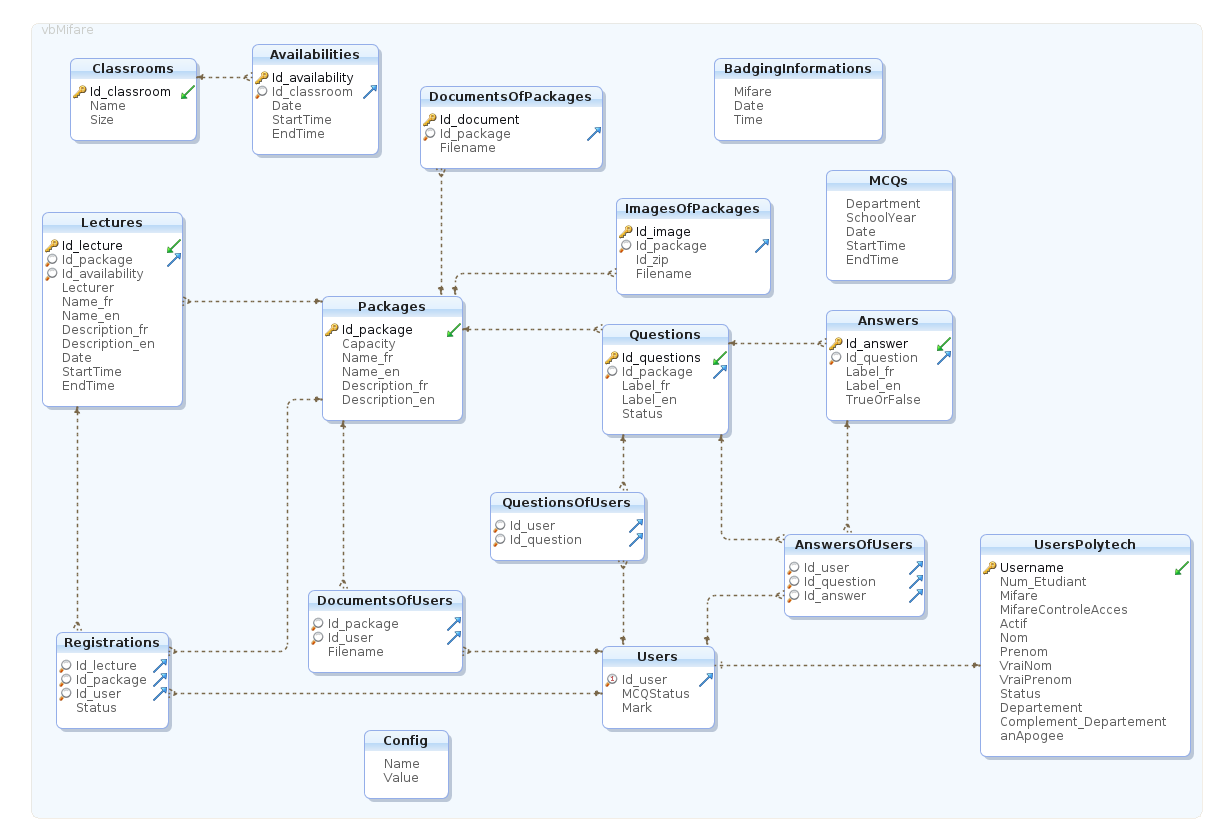
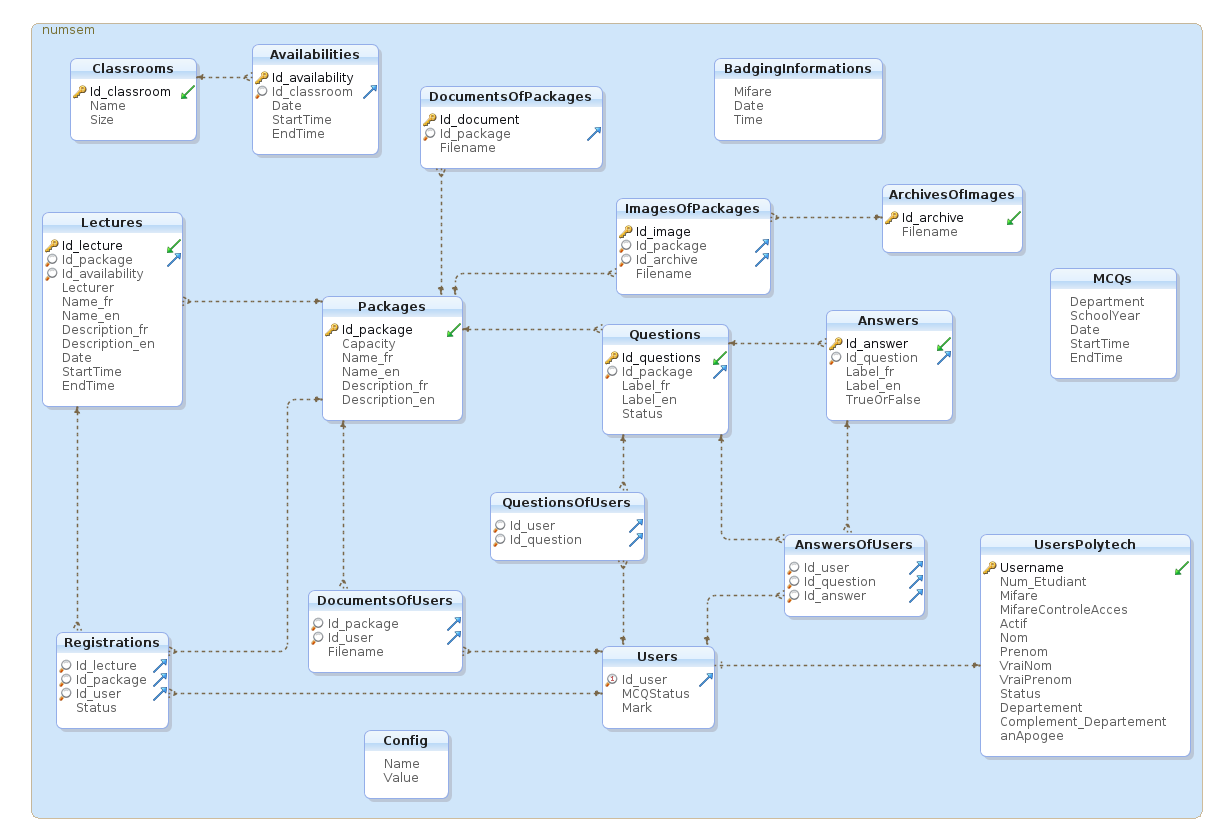
Changement sur la base de données

diff --git a/www/lib/Managers.class.php b/www/lib/Managers.class.php
@@ -20,7 +20,7 @@
         ////////////////////////////////////////////////////////////
         public function __construct()
         {
-            $this->m_dao = new Database('localhost', 'vbMifare', 'vbMifare2012', 'vbMifare');
+            $this->m_dao = new Database('localhost', 'vbMifare', 'vbMifare2012', 'numsem');
         }
         
         ////////////////////////////////////////////////////////////
